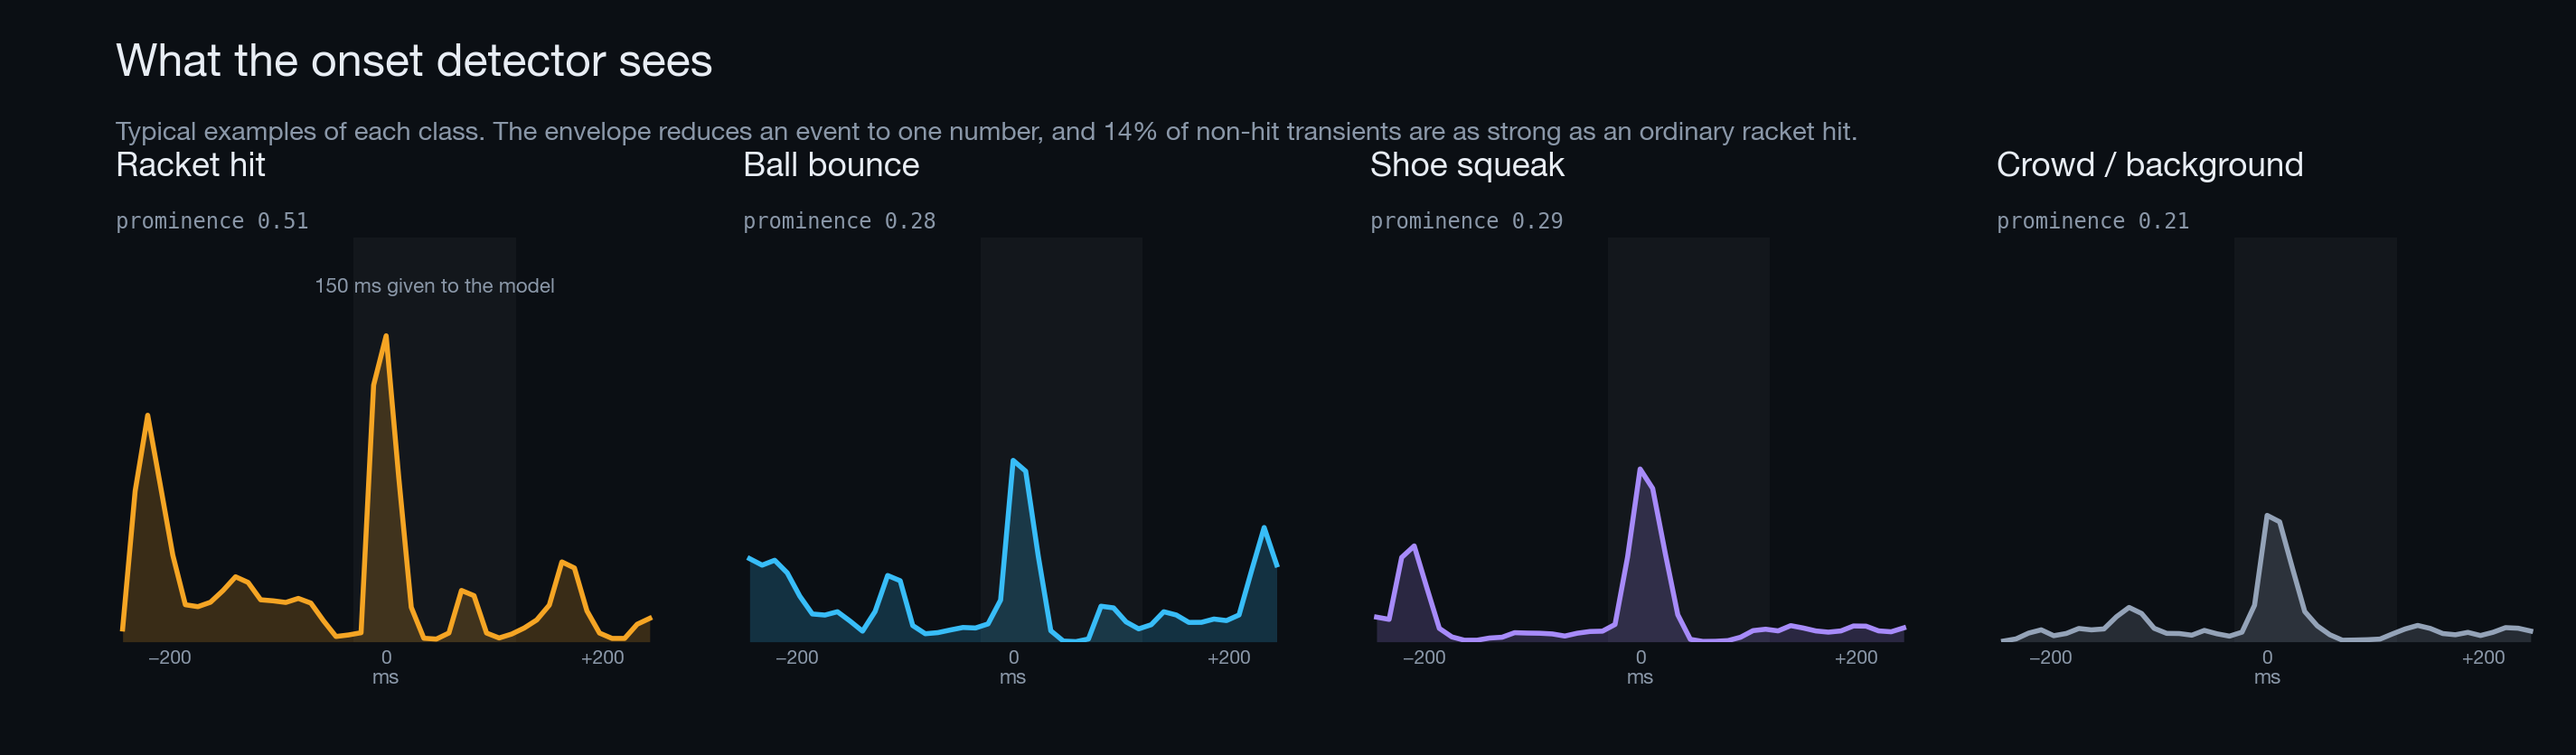
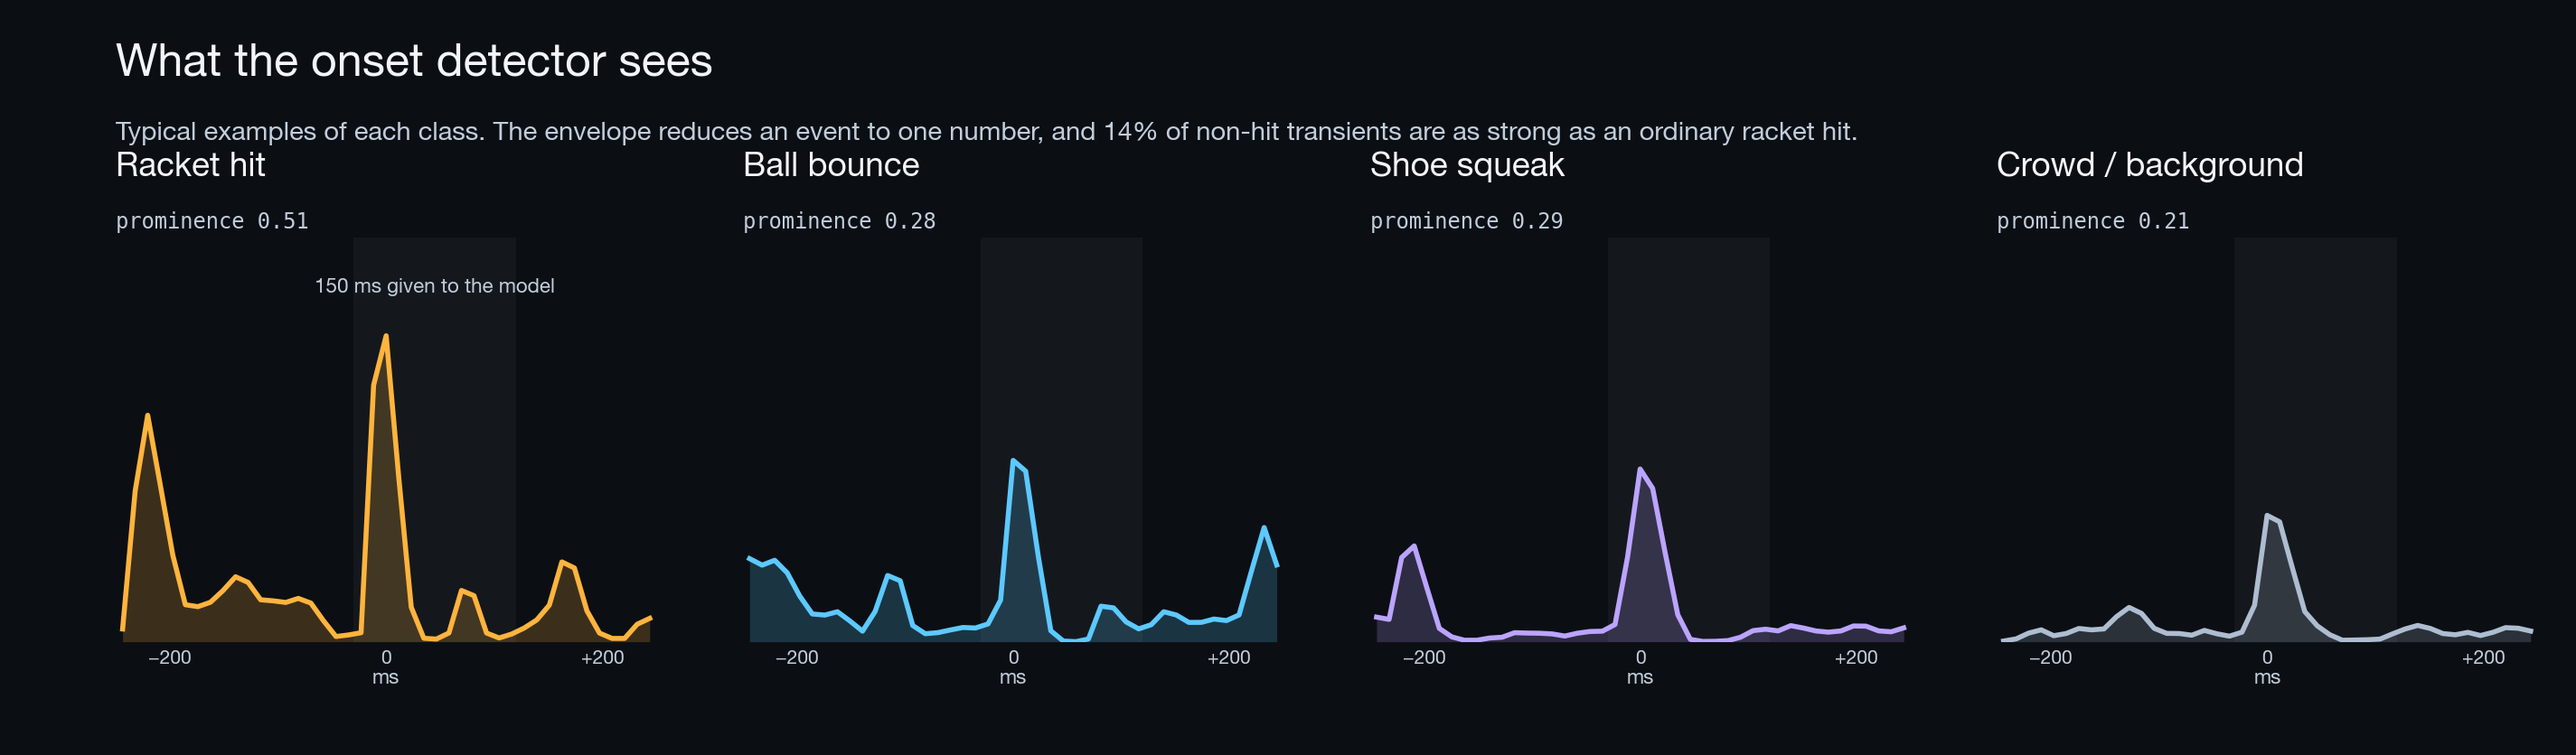
presentation: bullets, projector contrast, and end on the study results
Three changes for a classroom projector and a live recruitment ask.

Bullets replace prose. Thirteen paragraph blocks across nine slides
become lists: the problem statement, all three related-work panels, the
detection argument, both results callouts, the intensity panels, the sync
rationale and the demo setup. Single-sentence callouts are left alone —
a one-item bullet list is a bullet list that lost an argument. A new ul.b
carries a dash marker in currentColor at 55% opacity, so it tints with
whatever it sits in rather than adding a fourth accent colour.

Contrast raised throughout. Projectors cannot render black and ambient
light lifts it further, which was going to cost the mid-greys entirely:
muted #8A97A8 -> #C2CDDB, faint #5A6675 -> #93A1B2, borders #1E2733 ->
#33455A, panels lifted off the ground, and the four accents brightened a
step. The same palette is applied to presentation_assets.py and
user_study.py and all three figures regenerated, since figures on the old
palette would have sat visibly dim inside brighter slides.

The study results move to the end. The plan is to reach "a bigger study,
with more people — this seminar is a chance to recruit them", ask the
room, and show the results only if nobody volunteers. That needs the
results after the ask, not before it. The slide joins the closing act and
its eyebrow changes to "Where it stands", because the rail fills act by
act and would otherwise run backwards on the last slide.

diff --git a/docs/slides.src.html b/docs/slides.src.html
@@ -7,17 +7,17 @@
    --------------------------------------------------------------------------- */
 :root{
   --ground:#0B0F14;
-  --surface:#131A24;
-  --surface-2:#18212D;
-  --ink:#E8EDF4;
-  --muted:#8A97A8;
-  --faint:#5A6675;
-  --line:#1E2733;
-  --amber:#F5A524;
-  --sky:#38BDF8;
-  --violet:#A78BFA;
-  --slate:#94A3B8;
-  --good:#34D399;
+  --surface:#18232F;
+  --surface-2:#22303F;
+  --ink:#F2F6FA;
+  --muted:#C2CDDB;
+  --faint:#93A1B2;
+  --line:#33455A;
+  --amber:#FFB43D;
+  --sky:#5CC9FF;
+  --violet:#BBA4FF;
+  --slate:#AEBDD0;
+  --good:#4ADEA8;
 
   --sans:"Helvetica Neue",-apple-system,BlinkMacSystemFont,"Segoe UI",system-ui,Arial,sans-serif;
   --mono:"SF Mono",Menlo,ui-monospace,"Roboto Mono",monospace;
@@ -204,6 +204,15 @@ dl.spec dd em{font-style:normal;color:var(--muted);font-size:15px;}
   color:var(--ground);background:var(--amber);border-radius:3px;padding:2px 7px;
   display:inline-block;vertical-align:middle;
 }
+ul.b{list-style:none;margin:0;padding:0;display:flex;flex-direction:column;gap:11px;
+  font-size:19px;line-height:1.42;color:var(--muted);max-width:62ch;}
+ul.b li{position:relative;padding-left:22px;}
+ul.b li::before{content:"";position:absolute;left:0;top:.62em;width:9px;height:2px;
+  border-radius:1px;background:currentColor;opacity:.55;}
+.panel ul.b{font-size:15.5px;gap:8px;max-width:none;}
+.panel ul.b li{padding-left:18px;}
+.panel ul.b li::before{width:7px;top:.6em;}
+.callout ul.b{font-size:18px;color:var(--ink);gap:9px;max-width:none;}
 ul.ticks{list-style:none;margin:0;padding:0;display:flex;flex-direction:column;gap:12px;}
 ul.ticks li{
   font-size:17px;line-height:1.45;color:var(--muted);padding-left:22px;position:relative;
@@ -280,10 +289,12 @@ ul.ticks li b{color:var(--ink);font-weight:600;}
   <h2>Tennis is carried by its sound</h2>
   <div class="cols c52">
     <div class="stack grow">
-      <p>The sound of the strings tells you the timing, the power, and whether
-      the ball was hit cleanly &mdash; often before you see it. Take that away
-      and a rally becomes just movement.</p>
-      <p>For deaf and hard-of-hearing viewers, it is simply absent.</p>
+      <ul class="b">
+        <li>The strings carry the timing, the power, and whether the ball was hit cleanly.</li>
+        <li>You usually hear it before you see it.</li>
+        <li>Take it away and a rally becomes just movement.</li>
+        <li>For deaf and hard-of-hearing viewers, it is simply gone.</li>
+      </ul>
     </div>
     <div class="stack">
       <div class="callout">
@@ -293,9 +304,10 @@ ul.ticks li b{color:var(--ink);font-weight:600;}
       </div>
       <div class="panel">
         <span class="tag">The bar to clear</span>
-        <p>A buzz when nothing happened spoils the effect far more than a missing
-        buzz. <strong>Precision over recall</strong> &mdash; this one rule decides
-        everything that follows.</p>
+        <ul class="b">
+          <li>A buzz when nothing happened spoils the effect far more than a missing buzz.</li>
+          <li><strong>Precision over recall</strong> &mdash; this one rule decides everything that follows.</li>
+        </ul>
       </div>
     </div>
   </div>
@@ -309,30 +321,29 @@ ul.ticks li b{color:var(--ink);font-weight:600;}
     <div class="panel">
       <span class="tag">Strand 01</span>
       <h3>Haptics for spectators</h3>
-      <p>All triggered by events; they differ in what they sense &mdash; sound,
-      vision, or the body. <em>Iekura 2015 &middot; Handa 2019 &middot; Peng 2022</em></p>
-      <p>Nearly all need <strong>custom hardware</strong>.
-      <em>Mizushina 2015 &middot; Takahashi 2021 &middot; de Graaf 2022</em></p>
-      <p>Earlier <em>Feel the Sports</em> work drove a wrist device from motion
-      sensors. <em>Poutoa 2025 &middot; Nichols et al. 2026</em></p>
+      <ul class="b">
+        <li>All triggered by events; they differ in what they sense &mdash; sound, vision, or the body. <em>Iekura 2015 &middot; Handa 2019 &middot; Peng 2022</em></li>
+        <li>Nearly all need <strong>custom hardware</strong>. <em>Mizushina 2015 &middot; Takahashi 2021 &middot; de Graaf 2022</em></li>
+        <li>Earlier <em>Feel the Sports</em> work drove a wrist device from motion sensors. <em>Poutoa 2025 &middot; Nichols et al. 2026</em></li>
+      </ul>
     </div>
     <div class="panel">
       <span class="tag">Strand 02</span>
       <h3>Acoustic detection in tennis</h3>
-      <p>Loudness peaks in filtered audio. <em>Caprioli et al. 2024</em></p>
-      <p>MFCC + CNN, <strong>F1 92.4%</strong>. <em>Baughman et al. 2019</em></p>
-      <p>XGBoost, <strong>0.98</strong> for hits &mdash; but bounces need several
-      models combined, and real court noise drops it to <strong>~85%</strong>. <em>Caprioli et al. 2025</em></p>
+      <ul class="b">
+        <li>Loudness peaks in filtered audio. <em>Caprioli et al. 2024</em></li>
+        <li>MFCC + CNN, <strong>F1 92.4%</strong>. <em>Baughman et al. 2019</em></li>
+        <li>XGBoost, <strong>0.98</strong> for hits &mdash; but bounces need several models combined, and real court noise drops it to <strong>~85%</strong>. <em>Caprioli et al. 2025</em></li>
+      </ul>
     </div>
     <div class="panel">
       <span class="tag">Strand 03</span>
       <h3>What is missing</h3>
-      <p>Those systems study <strong>how players perform</strong>, not how people
-      watch, and record on court.</p>
-      <p>None deals with <strong>TV audio</strong> &mdash; crowd and commentary
-      over every rally.</p>
-      <p>The closest work using an ordinary phone is outside sport.
-      <em>G&oacute;mez-Monroy et al. 2026</em></p>
+      <ul class="b">
+        <li>Those systems study <strong>how players perform</strong>, not how people watch, and record on court.</li>
+        <li>None deals with <strong>TV audio</strong> &mdash; crowd and commentary over every rally.</li>
+        <li>The closest work using an ordinary phone is outside sport. <em>G&oacute;mez-Monroy et al. 2026</em></li>
+      </ul>
     </div>
   </div>
   <div class="callout" style="margin-top:8px;">
@@ -384,11 +395,12 @@ ul.ticks li b{color:var(--ink);font-weight:600;}
   <h2>Your ear separates them instantly.<br>The detector cannot.</h2>
   <div class="cols c2" style="align-items:center;">
     <div class="stack">
-      <p>The detector looks for <strong>sudden rises in energy</strong>. It is very
-      good at that: it finds <span class="amber">97%</span> of every hit a human
-      later confirmed.</p>
-      <p>But a shoe squeak, a bounce, a seat banging and a forehand are all sudden
-      rises. Finding a sound is not the same as knowing what it is.</p>
+      <ul class="b">
+        <li>The detector looks for <strong>sudden rises in energy</strong>.</li>
+        <li>It is very good at that: it finds <span class="amber">97%</span> of every hit a human later confirmed.</li>
+        <li>But a shoe squeak, a bounce, a seat banging and a forehand are all sudden rises.</li>
+        <li>Finding a sound is not the same as knowing what it is.</li>
+      </ul>
     </div>
     <div class="stats" style="grid-template-columns:1fr 1fr;">
       <div class="stat">
@@ -405,9 +417,11 @@ ul.ticks li b{color:var(--ink);font-weight:600;}
   </div>
   <div class="callout" style="margin-top:26px;">
     <span class="lbl">Consequence</span>
-    Fewer than half of what it finds turns out to be a racket hit. Buzzing on
-    all of them is not an option &mdash; so telling them apart has to come from
-    the sound of the hit itself.
+    <ul class="b">
+      <li>Fewer than half of what it finds is a racket hit.</li>
+      <li>Buzzing on all of them is not an option.</li>
+      <li>Telling them apart has to come from the sound of the hit itself.</li>
+    </ul>
   </div>
 </section>
 
@@ -480,16 +494,19 @@ ul.ticks li b{color:var(--ink);font-weight:600;}
   <div class="cols c2" style="flex:none;">
     <div class="callout">
       <span class="lbl">The architectural finding</span>
-      Testing <em style="font-style:normal;color:var(--muted);">every</em> 10 ms of
-      audio costs <strong>2.4 false buzzes a minute</strong>. Letting the detector
-      pick the moments first, and asking the model only about those, drops it to
-      <strong>zero</strong> at the same recall &mdash; and 180&times; less computing.
+      <ul class="b">
+        <li>Testing <em style="font-style:normal;">every</em> 10 ms of audio: <strong>2.4 false buzzes a minute</strong>.</li>
+        <li>Let the detector pick the moments first, and ask the model only about those: <strong>zero</strong>, at the same recall.</li>
+        <li>And <strong>180&times;</strong> less computing.</li>
+      </ul>
     </div>
     <div class="callout" style="border-left-color:var(--sky);">
       <span class="lbl" style="color:var(--sky);">On honest evaluation</span>
-      Deciding when to stop training by looking at the test match made the score
-      <strong>0.10 too high</strong>. Splitting the data three ways fixed it. The
-      lower, corrected numbers are the ones shown here.
+      <ul class="b">
+        <li>Stopping training by looking at the test match made the score <strong>0.10 too high</strong>.</li>
+        <li>Splitting the data three ways fixed it.</li>
+        <li>The lower, corrected numbers are the ones shown here.</li>
+      </ul>
     </div>
   </div>
 </section>
@@ -526,14 +543,18 @@ ul.ticks li b{color:var(--ink);font-weight:600;}
   <div class="cols c2" style="flex:none;">
     <div class="panel">
       <span class="tag">Why per-broadcast</span>
-      <p>Videos differ hugely in loudness. One fixed setting would leave one match
-      feeling dead and another buzzing constantly.</p>
+      <ul class="b">
+        <li>Videos differ hugely in loudness.</li>
+        <li>One fixed setting would leave one match feeling dead and another buzzing constantly.</li>
+      </ul>
     </div>
     <div class="panel" style="border-left:3px solid var(--amber);">
       <span class="tag">The honest cost</span>
-      <p>So strength is <strong>relative</strong>. A soft hit in a quiet match can
-      feel like a hard hit in a loud one. Matching across matches is still
-      unsolved.</p>
+      <ul class="b">
+        <li>So strength is <strong>relative</strong>, not absolute.</li>
+        <li>A soft hit in a quiet match can feel like a hard hit in a loud one.</li>
+        <li>Matching across matches is still unsolved.</li>
+      </ul>
     </div>
   </div>
 </section>
@@ -630,9 +651,11 @@ ul.ticks li b{color:var(--ink);font-weight:600;}
   <div class="cols" style="grid-template-columns:1.5fr 1fr;flex:none;gap:24px;margin-top:16px;">
     <div class="callout">
       <span class="lbl">Why not just say &ldquo;buzz now&rdquo;?</span>
-      A message per hit would pick up every wobble in the Wi-Fi &mdash; and the
-      timing is the whole point. Sending it all up front leaves the network
-      responsible only for <strong>slow drift</strong>.
+      <ul class="b">
+        <li>The phone is never told &ldquo;buzz now&rdquo;.</li>
+        <li>A message per hit would pick up every wobble in the Wi-Fi &mdash; and the timing is the whole point.</li>
+        <li>Sending it all up front leaves the network responsible only for <strong>slow drift</strong>.</li>
+      </ul>
     </div>
     <div class="panel">
       <span class="tag">Measured</span>
@@ -646,9 +669,10 @@ ul.ticks li b{color:var(--ink);font-weight:600;}
 <section class="slide vc" data-act="4" data-time="1:05">
   <div class="eyebrow"><i class="dot"></i>The feeling</div>
   <h2>Feel it</h2>
-  <p class="lede" style="margin-bottom:30px;">Two clips, played normally &mdash;
-  one <strong>without</strong> vibration, one <strong>with</strong>. The same
-  comparison the study participants made.</p>
+  <ul class="b" style="margin-bottom:30px;font-size:21px;">
+    <li>Two clips, played normally &mdash; one <strong>without</strong> vibration, one <strong>with</strong>.</li>
+    <li>The same comparison the study participants made.</li>
+  </ul>
   <div class="demo-steps" style="margin-bottom:26px;">
     <div class="step">
       <span class="i">STEP 01</span>
@@ -668,31 +692,11 @@ ul.ticks li b{color:var(--ink);font-weight:600;}
   </div>
   <div class="callout">
     <span class="lbl">What this does and does not show</span>
-    With the sound on, this shows what it <strong>feels like</strong>, not how
-    accurate it is &mdash; you cannot tell a correct buzz from a lucky one. The
-    accuracy is on the earlier slides; this is what those numbers feel like.
-  </div>
-</section>
-
-<!-- 12 .................................................... user study -->
-<section class="slide" data-act="4" data-time="0:50">
-  <div class="eyebrow"><i class="dot"></i>The feeling</div>
-  <h2>What 12 people said</h2>
-  <figure>
-    <img src="__ASSET:docs/figures/fig_c_user_study.png__" alt="Likert responses from 12 participants: system-quality items cluster at strongly agree, experience items spread across the whole scale">
-    <figcaption>Same people in both conditions, order balanced &nbsp;·&nbsp; two clips, one with buzzes &nbsp;·&nbsp; n = 12</figcaption>
-  </figure>
-  <div class="cols" style="grid-template-columns:1fr 1fr;flex:none;gap:24px;margin-top:14px;">
-    <div class="callout" style="border-left-color:var(--good);">
-      <span class="lbl" style="color:var(--good);">The detector is not the problem</span>
-      Noticed, fits, in time: <strong>4.67 / 5</strong>, spread 0.53. Nobody
-      doubted that the buzzes land in the right place.
-    </div>
-    <div class="callout">
-      <span class="lbl">Wanting it is a separate question</span>
-      Enjoyed, engaging, would install: <strong>3.36 / 5</strong>, spread
-      <strong>1.33</strong>. Six would install it, five would not.
-    </div>
+    <ul class="b">
+      <li>With the sound on, this shows what it <strong>feels like</strong>, not how accurate it is.</li>
+      <li>You cannot tell a correct buzz from a lucky one.</li>
+      <li>The accuracy is on the earlier slides; this is what those numbers feel like.</li>
+    </ul>
   </div>
 </section>
 
@@ -720,6 +724,28 @@ ul.ticks li b{color:var(--ink);font-weight:600;}
         <span class="lbl">The principle that held throughout</span>
         A false buzz is worse than a missed one.
       </div>
+    </div>
+  </div>
+</section>
+
+<!-- 13 .................................................... user study -->
+<section class="slide" data-act="5" data-time="0:50">
+  <div class="eyebrow"><i class="dot"></i>Where it stands</div>
+  <h2>What 12 people said</h2>
+  <figure>
+    <img src="__ASSET:docs/figures/fig_c_user_study.png__" alt="Likert responses from 12 participants: system-quality items cluster at strongly agree, experience items spread across the whole scale">
+    <figcaption>Same people in both conditions, order balanced &nbsp;·&nbsp; two clips, one with buzzes &nbsp;·&nbsp; n = 12</figcaption>
+  </figure>
+  <div class="cols" style="grid-template-columns:1fr 1fr;flex:none;gap:24px;margin-top:14px;">
+    <div class="callout" style="border-left-color:var(--good);">
+      <span class="lbl" style="color:var(--good);">The detector is not the problem</span>
+      Noticed, fits, in time: <strong>4.67 / 5</strong>, spread 0.53. Nobody
+      doubted that the buzzes land in the right place.
+    </div>
+    <div class="callout">
+      <span class="lbl">Wanting it is a separate question</span>
+      Enjoyed, engaging, would install: <strong>3.36 / 5</strong>, spread
+      <strong>1.33</strong>. Six would install it, five would not.
     </div>
   </div>
 </section>

diff --git a/presentation_assets.py b/presentation_assets.py
@@ -49,17 +49,17 @@ OUT_AUD = "docs/audio"
 # Deck palette. Figures are drawn on the slide background so they sit flush
 # rather than floating in a white box.
 BG = "#0B0F14"
-INK = "#E8EDF4"
-MUTED = "#8A97A8"
-GRID = "#1E2733"
+INK = "#F2F6FA"
+MUTED = "#C2CDDB"
+GRID = "#33455A"
 
 CLASSES = ["racket_hit", "ball_bounce", "shoe_squeak", "ambient_noise"]
 TITLES = ["Racket hit", "Ball bounce", "Shoe squeak", "Crowd / background"]
 COLOURS = {
-    "racket_hit": "#F5A524",
-    "ball_bounce": "#38BDF8",
-    "shoe_squeak": "#A78BFA",
-    "ambient_noise": "#94A3B8",
+    "racket_hit": "#FFB43D",
+    "ball_bounce": "#5CC9FF",
+    "shoe_squeak": "#BBA4FF",
+    "ambient_noise": "#AEBDD0",
 }
 
 CLIP_PRE_S = 0.25          # audio clip window around the event

diff --git a/user_study.py b/user_study.py
@@ -95,8 +95,8 @@ LABELS = {
 SYSTEM = ["q5_noticeable", "q6_fit", "q7_synchronised"]
 EXPERIENCE = ["q3_enjoyed", "q10_engagement", "q11_install"]
 
-BG, INK, MUTED, FAINT, LINE = "#0B0F14", "#E8EDF4", "#8A97A8", "#5A6675", "#1E2733"
-AMBER, SKY, GOOD = "#F5A524", "#38BDF8", "#34D399"
+BG, INK, MUTED, FAINT, LINE = "#0B0F14", "#F2F6FA", "#C2CDDB", "#93A1B2", "#33455A"
+AMBER, SKY, GOOD = "#FFB43D", "#5CC9FF", "#4ADEA8"
 
 
 def load(path):
